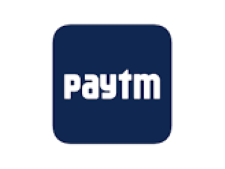
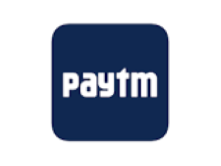
files added

diff --git a/online_pay.html b/online_pay.html
@@ -33,9 +33,9 @@
             </div>
             </div>
             </div>
-           <br><br>
+           <br><br><br>
             <div class="container">
-                <h1>Place your Order</h1><br><br>
+                <h1>Order online on Swiggy.com and Zomato</h1><br><br>
                 <form id="order-form">
                     <div class="form-group">
                         <label for="payment-method"><strong>Payment Method:</strong></label><br>
@@ -46,11 +46,11 @@
                             <input type="radio" id="googlepay" name="payment-method" value="googlepay" required>
                             <label for="googlepay"><img src="css/images/googl_pay.png" alt="Google Pay"></label>
                             <input type="radio" id="paytm" name="payment-method" value="paytm" required>
-                            <label for="paytm"><img src="css/images/paytm.png" alt="Paytm"></label>
+                            <label for="paytm"><img src="css/images/paytm 2.png" alt="Paytm"></label>
                         </div>
                     </div>
         
-                    <div id="payment-details" style="display: none;">
+                    <!-- <div id="payment-details" style="display: none;">
                         <div class="form-group">
                             <label for="mobile-number">Mobile Number:</label>
                             <input type="text" class="form-control" id="mobile-number" required>
@@ -64,7 +64,7 @@
                             <input type="number" class="form-control" id="payment-amount" required>
                         </div>
                     </div>
-                  <button type="submit" class="btn btn-primary">Place Order</button>
+                  <button type="submit" class="btn btn-primary">Place Order</button> -->
                 </form>
             </div>
 

diff --git a/javascript/order.js b/javascript/order.js
@@ -31,36 +31,3 @@ document.getElementById("order-form").addEventListener("submit", function(e) {
 
 
 
-// // // Add event listener to payment mode radio buttons
-// onlinePaymentRadio.addEventListener('change', togglePaymentPlatforms);
-// codPaymentRadio.addEventListener('change', togglePaymentPlatforms);
-
-// // // Function to toggle visibility of payment platforms based on the selected payment mode
-// function togglePaymentPlatforms() {
-//   if (onlinePaymentRadio.checked) {
-//     paymentPlatforms.style.display = 'block';
-//   } else {
-//     paymentPlatforms.style.display = 'none';
-//   }
-// }
-//  // Get the payment mode radio buttons and the payment platform dropdown element
-// const onlinePaymentRadio = document.getElementById('online-payment');
-// const codPaymentRadio = document.getElementById('cod-payment');
-// const paymentPlatforms = document.getElementById('payment-platforms');
-
-// // // Add event listener to payment mode radio buttons
-// onlinePaymentRadio.addEventListener('change', togglePaymentPlatforms);
-// codPaymentRadio.addEventListener('change', togglePaymentPlatforms);
-
-// // // Function to toggle visibility of payment platforms based on the selected payment mode
-// function togglePaymentPlatforms() {
-//   if (onlinePaymentRadio.checked) {
-//     paymentPlatforms.style.display = 'block';
-//   } else {
-//     paymentPlatforms.style.display = 'none';
-//   }
-// }
-
-// // Call the function initially to set the initial visibility based on the default checked payment mode
-//  togglePaymentPlatforms();
-
